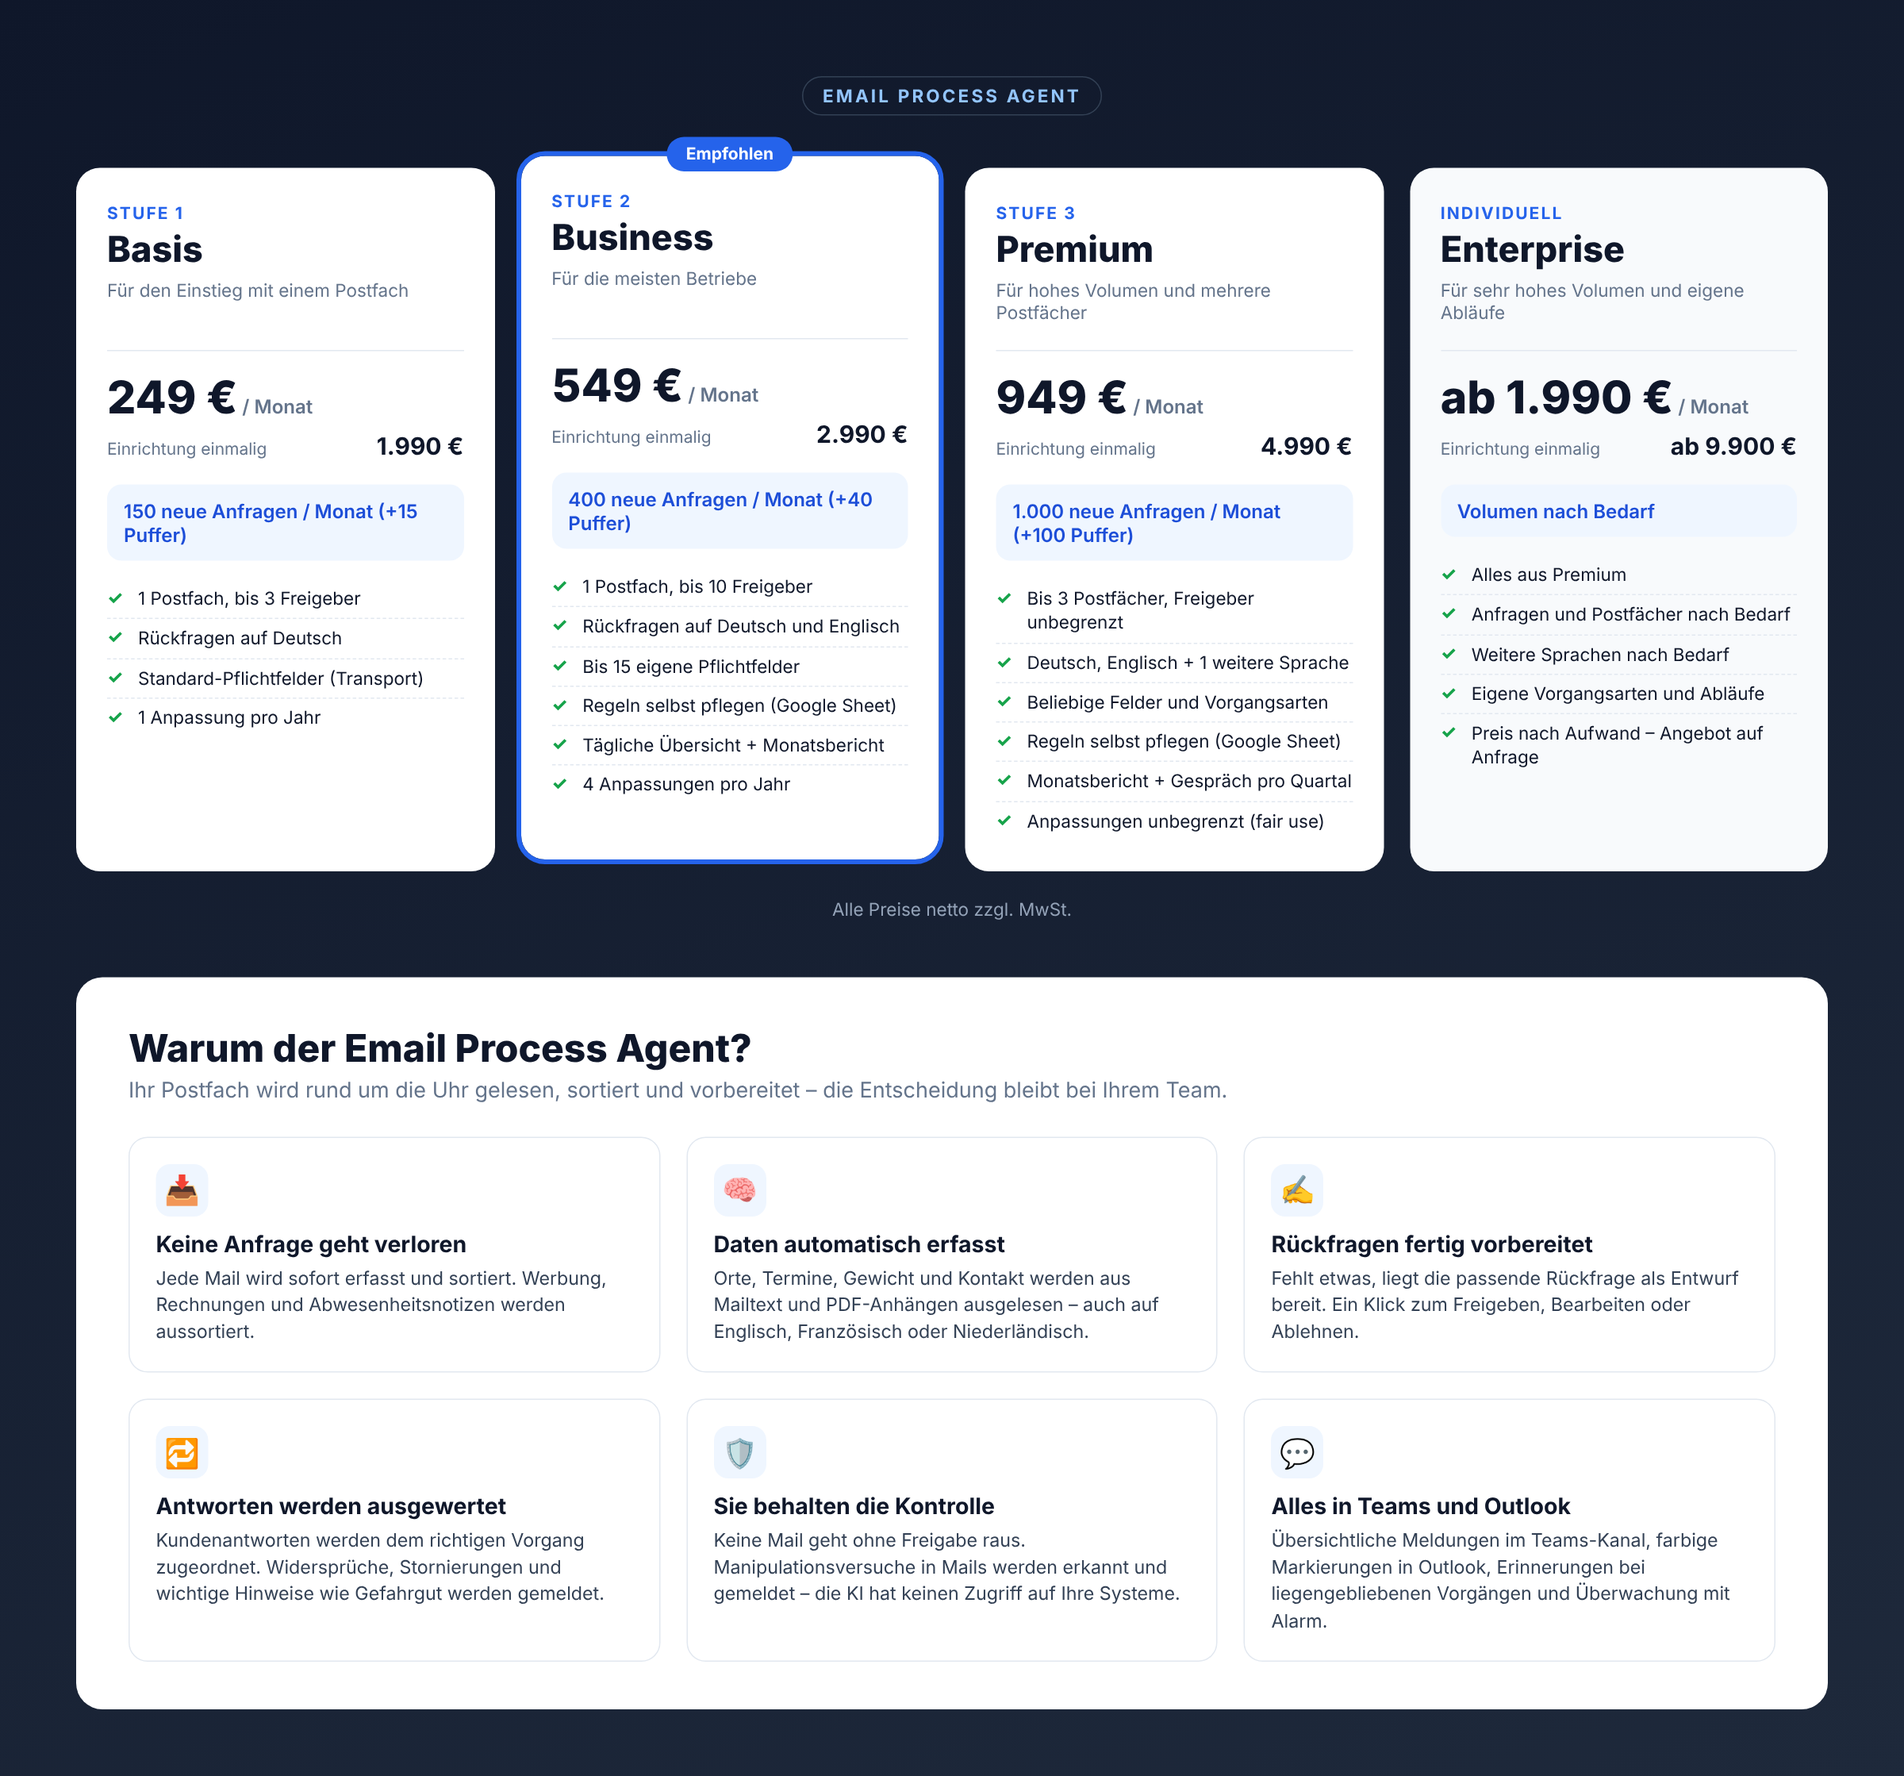
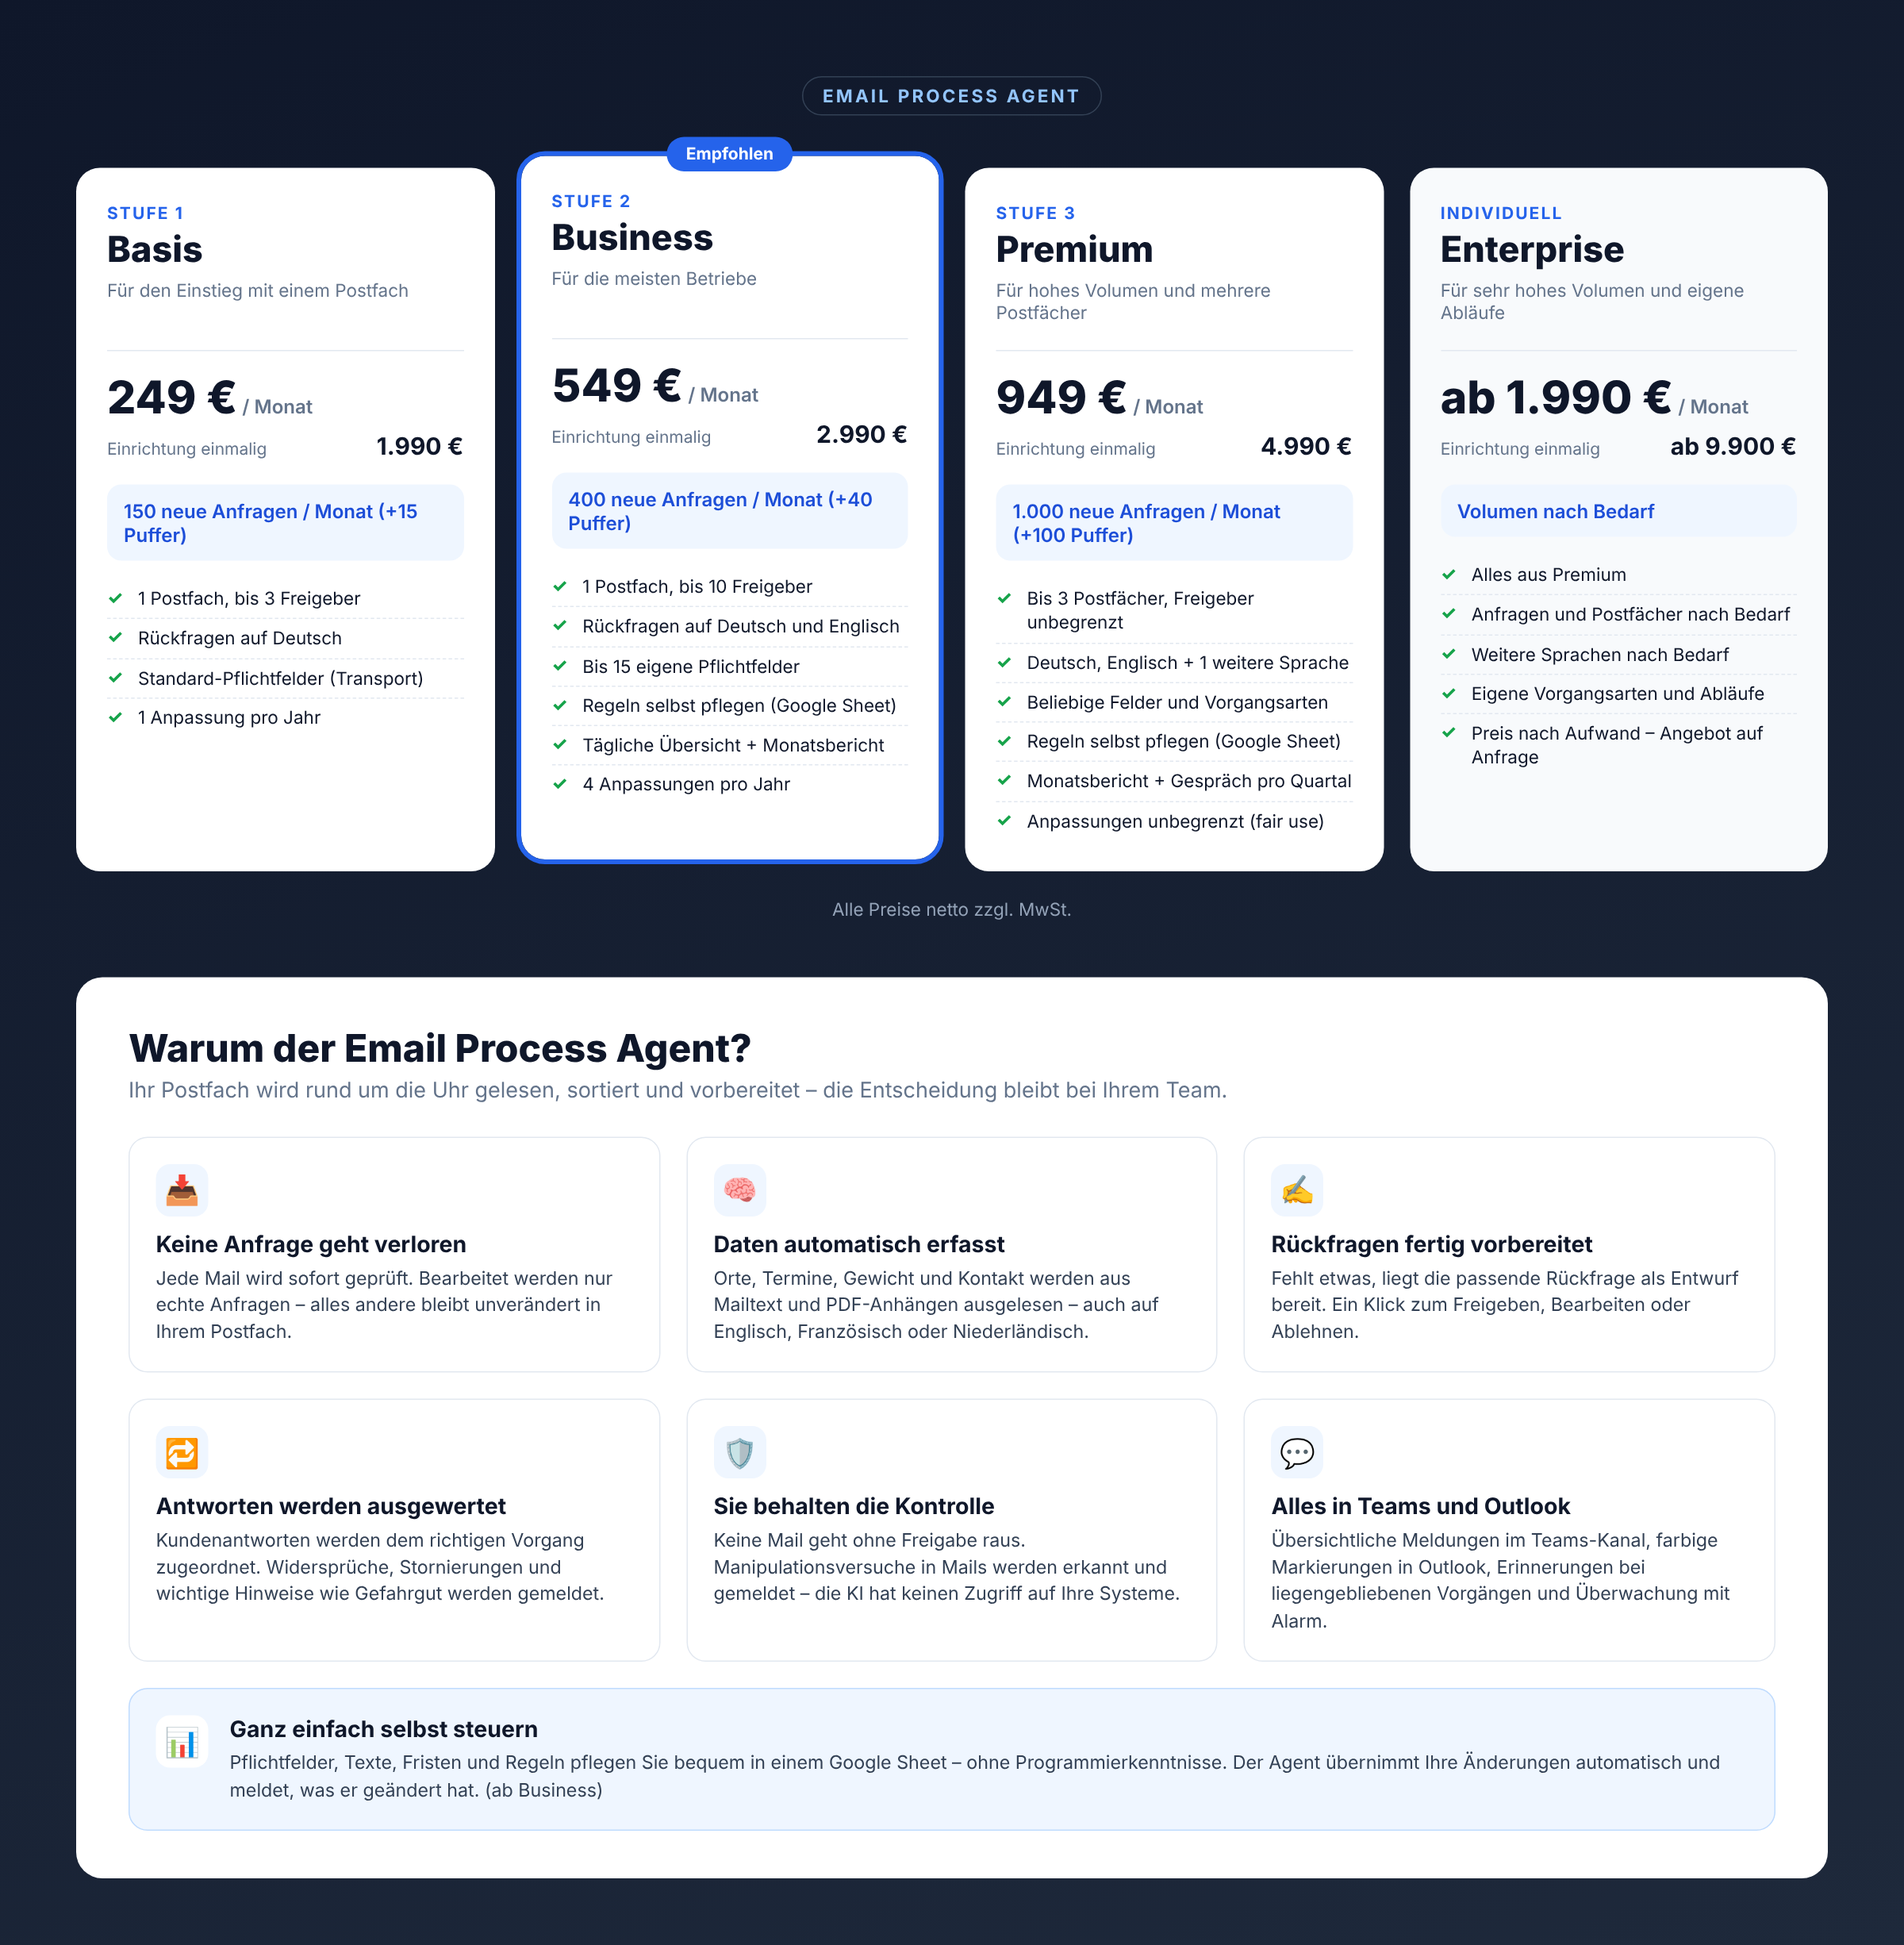
Marketing: nur Anfragen werden bearbeitet, Punkt Steuerung per Google Sheet
Claude-Session: https://claude.ai/code/session_01DWBN4EiRV4Kip9NV7YGeLF

Changed region(s): [[0.0312, 0.0308, 0.9688, 0.9249], [0.0625, 0.9558, 0.9375, 0.9866]]

diff --git a/email-process-agent/docs/marketing/pakete.html b/email-process-agent/docs/marketing/pakete.html
@@ -38,6 +38,8 @@ li::before{content:"✓";position:absolute;left:0;top:5px;color:var(--ok);font-w
 .grid{display:grid;grid-template-columns:repeat(3,1fr);gap:22px}
 .v{border:1px solid var(--line);border-radius:16px;padding:22px}
 .v .ic{width:44px;height:44px;border-radius:12px;background:var(--soft);display:flex;align-items:center;justify-content:center;font-size:24px;margin-bottom:12px}
+.v.breit{grid-column:1 / -1;display:flex;gap:18px;align-items:flex-start;background:var(--soft);border-color:#bfdbfe}
+.v.breit .ic{background:#fff;flex:none;margin-bottom:0}
 .v h3{font-size:19px;font-weight:700;margin-bottom:6px}
 .v p{font-size:15.5px;color:#334155;line-height:1.45}
 .fuss{text-align:center;color:#cbd5e1;font-size:17px;margin-top:30px}
@@ -127,12 +129,13 @@ li::before{content:"✓";position:absolute;left:0;top:5px;color:var(--ok);font-w
   <h2>Warum der Email Process Agent?</h2>
   <div class="sub">Ihr Postfach wird rund um die Uhr gelesen, sortiert und vorbereitet – die Entscheidung bleibt bei Ihrem Team.</div>
   <div class="grid">
-    <div class="v"><div class="ic">📥</div><h3>Keine Anfrage geht verloren</h3><p>Jede Mail wird sofort erfasst und sortiert. Werbung, Rechnungen und Abwesenheitsnotizen werden aussortiert.</p></div>
+    <div class="v"><div class="ic">📥</div><h3>Keine Anfrage geht verloren</h3><p>Jede Mail wird sofort geprüft. Bearbeitet werden nur echte Anfragen – alles andere bleibt unverändert in Ihrem Postfach.</p></div>
     <div class="v"><div class="ic">🧠</div><h3>Daten automatisch erfasst</h3><p>Orte, Termine, Gewicht und Kontakt werden aus Mailtext und PDF-Anhängen ausgelesen – auch auf Englisch, Französisch oder Niederländisch.</p></div>
     <div class="v"><div class="ic">✍</div><h3>Rückfragen fertig vorbereitet</h3><p>Fehlt etwas, liegt die passende Rückfrage als Entwurf bereit. Ein Klick zum Freigeben, Bearbeiten oder Ablehnen.</p></div>
     <div class="v"><div class="ic">🔁</div><h3>Antworten werden ausgewertet</h3><p>Kundenantworten werden dem richtigen Vorgang zugeordnet. Widersprüche, Stornierungen und wichtige Hinweise wie Gefahrgut werden gemeldet.</p></div>
     <div class="v"><div class="ic">🛡</div><h3>Sie behalten die Kontrolle</h3><p>Keine Mail geht ohne Freigabe raus. Manipulationsversuche in Mails werden erkannt und gemeldet – die KI hat keinen Zugriff auf Ihre Systeme.</p></div>
     <div class="v"><div class="ic">💬</div><h3>Alles in Teams und Outlook</h3><p>Übersichtliche Meldungen im Teams-Kanal, farbige Markierungen in Outlook, Erinnerungen bei liegengebliebenen Vorgängen und Überwachung mit Alarm.</p></div>
+    <div class="v breit"><div class="ic">📊</div><div><h3>Ganz einfach selbst steuern</h3><p>Pflichtfelder, Texte, Fristen und Regeln pflegen Sie bequem in einem Google Sheet – ohne Programmierkenntnisse. Der Agent übernimmt Ihre Änderungen automatisch und meldet, was er geändert hat. (ab Business)</p></div></div>
   </div>
 </div>
 
